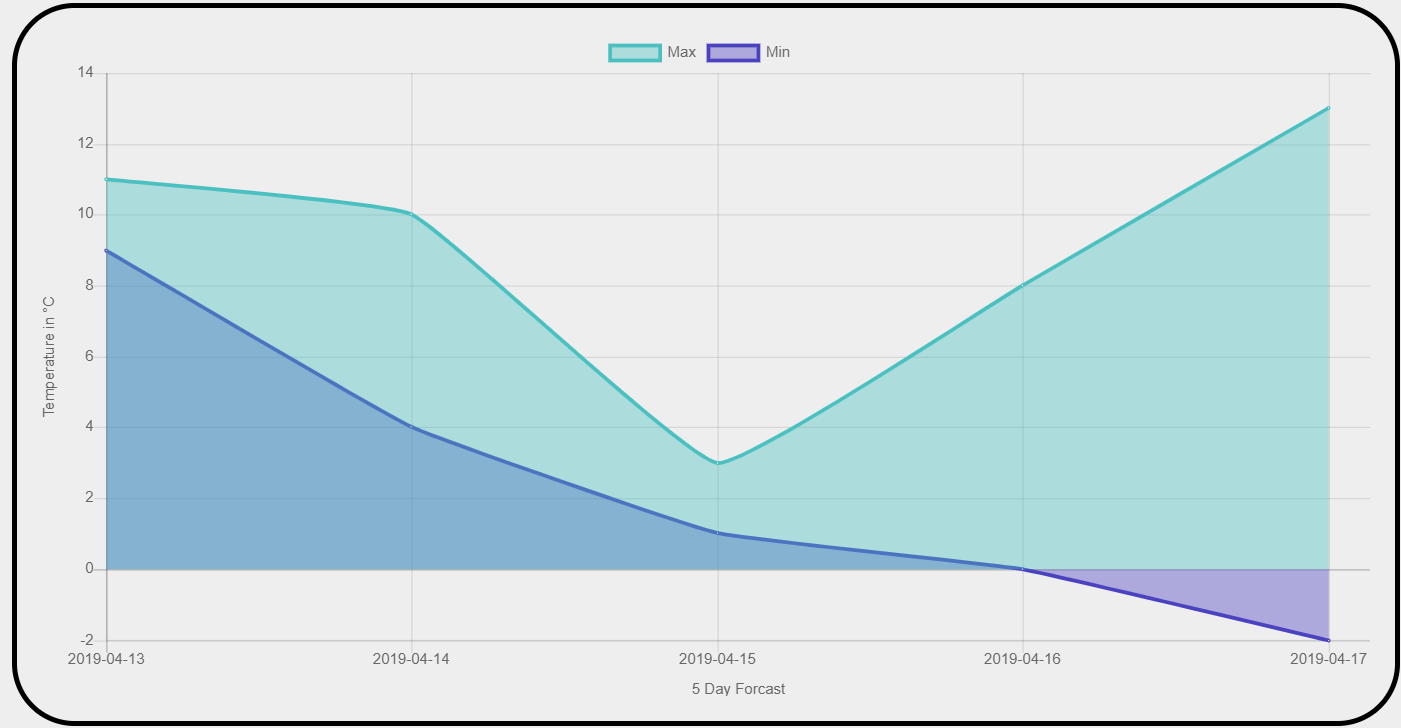
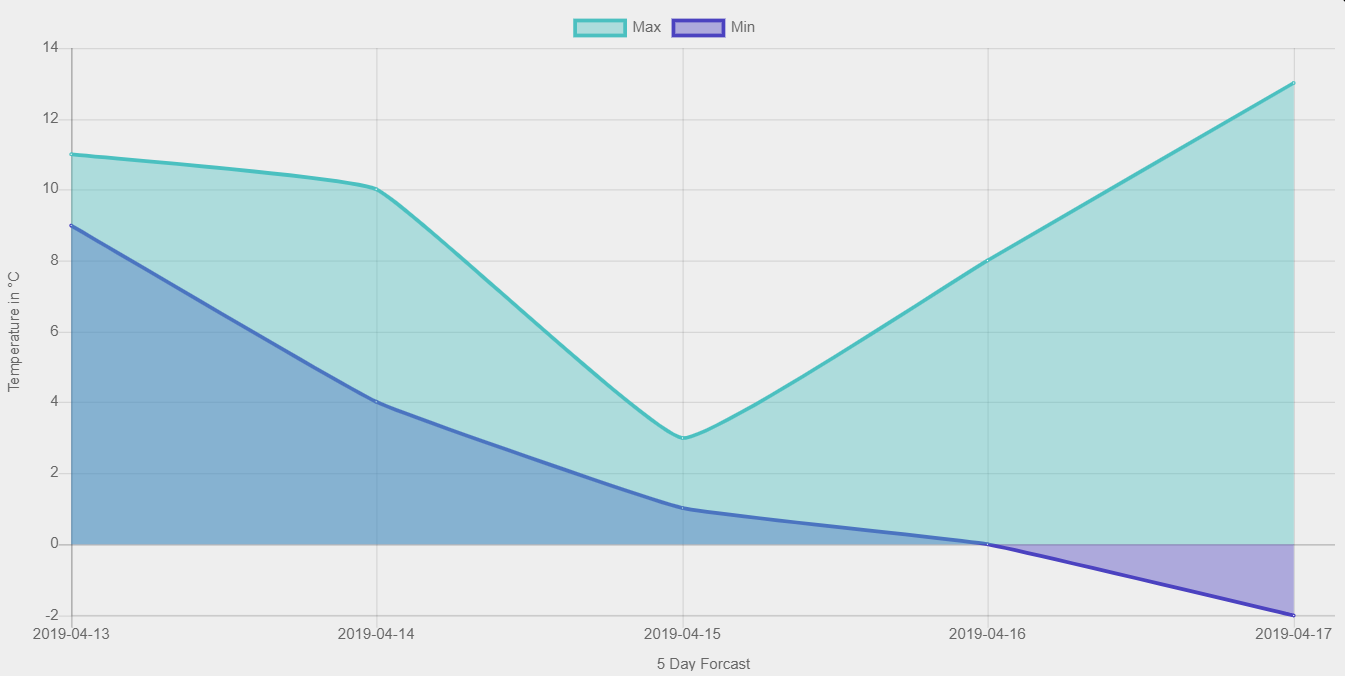
image resize and added more viewprofilebtn functionality

diff --git a/Pages/About.html b/Pages/About.html
@@ -1,7 +1,7 @@
 <html>
 <head>
-	<link rel = "stylesheet" type = "text/css" href="CSS/styleAbout.css">
-	<link rel = "stylesheet" type = "text/css" href="CSS/stylePages.css">
+	<link rel = "stylesheet" type = "text/css" href="assets/css/styleAbout.css">
+	<link rel = "stylesheet" type = "text/css" href="assets/css/stylePages.css">
 </head>
 <body>
 	<div class = "title">
@@ -15,16 +15,16 @@
 			I'm a Front-end Developer based in Toronto, Canada. I have a passionate goal to produce high quality responsive websites and web apps.
 		</p>
 		<ul class = "img-align">
-			<li><img src = "Images/react-logo.png" width = "90" height = "90"></li>
-			<li><img src = "Images/angular-logo.png" width = "90" height = "90"></li>
-			<li><img src = "Images/node-logo.png" width = "120" height = "90"></li>
+			<li><img src = "assets/images/react-logo.png" width = "90" height = "90"></li>
+			<li><img src = "assets/images/angular-logo.png" width = "90" height = "90"></li>
+			<li><img src = "assets/images/node-logo.png" width = "120" height = "90"></li>
 		</ul>
 		<p>
 			I studied Software Development at Sheridan College where I built a foundation for my skills in programming. After which, I spent time learning different front-end frameworks, namely React and Angular while also focusing on Node.js for back-end. Most of this was self-taught.  
 		</p>
 		<ul class = "img-align">
-			<li><img src = "Images/cpp-logo.png" width = "80" height = "80"></li>
-			<li><img src = "Images/unity-logo.png" width = "210" height = "90"></li>
+			<li><img src = "assets/images/cpp-logo.png" width = "80" height = "80"></li>
+			<li><img src = "assets/images/unity-logo.png" width = "210" height = "90"></li>
 		</ul>
 		<p>
 			As a side hobby, I do enjoy making small games. Either with a small engine made with the help of SFML or something in Unity as it is very beginner friendly. 

diff --git a/index.html b/index.html
@@ -51,7 +51,7 @@
 			<p>to my website.</p>
 
 		</div>
-		<div class = "viewprofilebtn hide">
+		<div id = "viewprofilebtn" class = "hide">
 			<a href = "javascript:void(0)" onclick = "closeBanner()">View Profile</a><br><br>
 				
 				<img class = "double-arrow hvr-bob" type = "image" src = "assets/images/double-chevron-up.png"></img>
@@ -59,10 +59,10 @@
 		</div>
 	</div>
 	<img>
-	<div class = "main" ng-view></div> <!--SPA-->
+	<div class = "main fade" ng-view></div> <!--SPA-->
 	
 	<footer>
-		<div class = "footer-container">
+		<div class = "footer-container fade">
 			<p>
 				© 2019 
 				<a href = "https://hasali.github.io"> Hassan Mahmood</a>. All Rights Reserved

diff --git a/assets/css/styleProjects.css b/assets/css/styleProjects.css
@@ -13,11 +13,12 @@
 }
 .imagespec 
 {
-	width: 200px;
-	height: 200px;
+	width: 210px;
+	height: 140px;
 	margin: 25px;
 	position: relative;
 }
+
 .imagespec .myImg
 {
 	
@@ -26,19 +27,22 @@
 	//margin: 25px;
 	filter: brightness(100%);
 	//border: solid #f9f9f9;
-	border-radius: 10px;
+	//border-radius: 10px;
 	//position: relative;
 }
-img:hover{
+
+img:hover
+{
 	position: relative;
 }
+
 img:hover:after
 {
 	content: url(../images/unity-logo.png);
 	display: block;
 	position: absolute;
 	top: 50%;
-	
+	//z-index: 2;
 	right: 50%;
 	
 	width: 100%;

diff --git a/assets/css/styleMain.css b/assets/css/styleMain.css
@@ -235,7 +235,7 @@ div.logo-name p:nth-of-type(2)
   animation-direction: normal, alternate;
 }
 
-.viewprofilebtn 
+#viewprofilebtn 
 {
 	//display: flex;
 	text-align: center;
@@ -247,7 +247,7 @@ div.logo-name p:nth-of-type(2)
 
 }
 
-.viewprofilebtn a 
+#viewprofilebtn a 
 {
 	color: #f1f1f1;
 	text-decoration: none;
@@ -317,6 +317,11 @@ footer
 	width: 100px;
 	height: 200px;
 	background-color: red;
+}
+.fade
+{
+	display: none;
+	
 }
 /*.setup:hover
 {

diff --git a/assets/scripts/script.js b/assets/scripts/script.js
@@ -1,4 +1,16 @@
+window.onload = function()
+{
+  document.getElementById("viewprofilebtn").addEventListener("click", fadeIn);
+}
+function fadeIn()
+{
+  var fadeItems = document.getElementsByClassName("fade");
 
+  for(var i = 0; i < fadeItems.length; i++ )
+  {
+    fadeItems[i].style.display = "block";
+  }
+}
 
 function closeBanner() 
 {

diff --git a/Pages/Projects.html b/Pages/Projects.html
@@ -6,7 +6,7 @@
 		var url = "assets/scripts/modalScript.js";
 		$.getScript(url);
 	</script>
-	<!-- <link rel = "stylesheet" type = "text/css" href="CSS/styleProjects.css"> -->
+	
 </head>
 <body>
 	<div class = "title">
